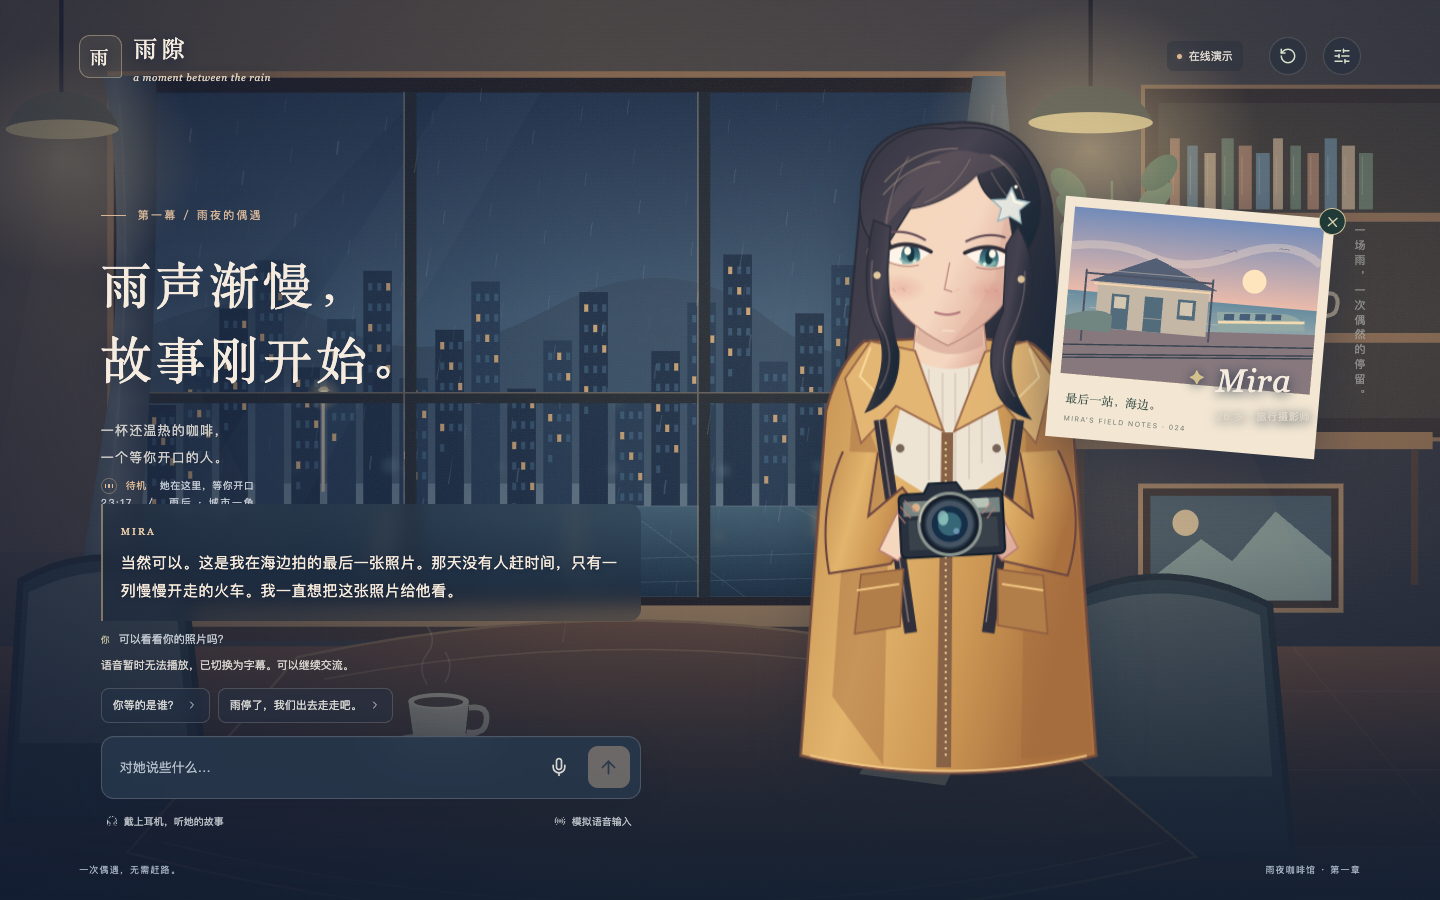
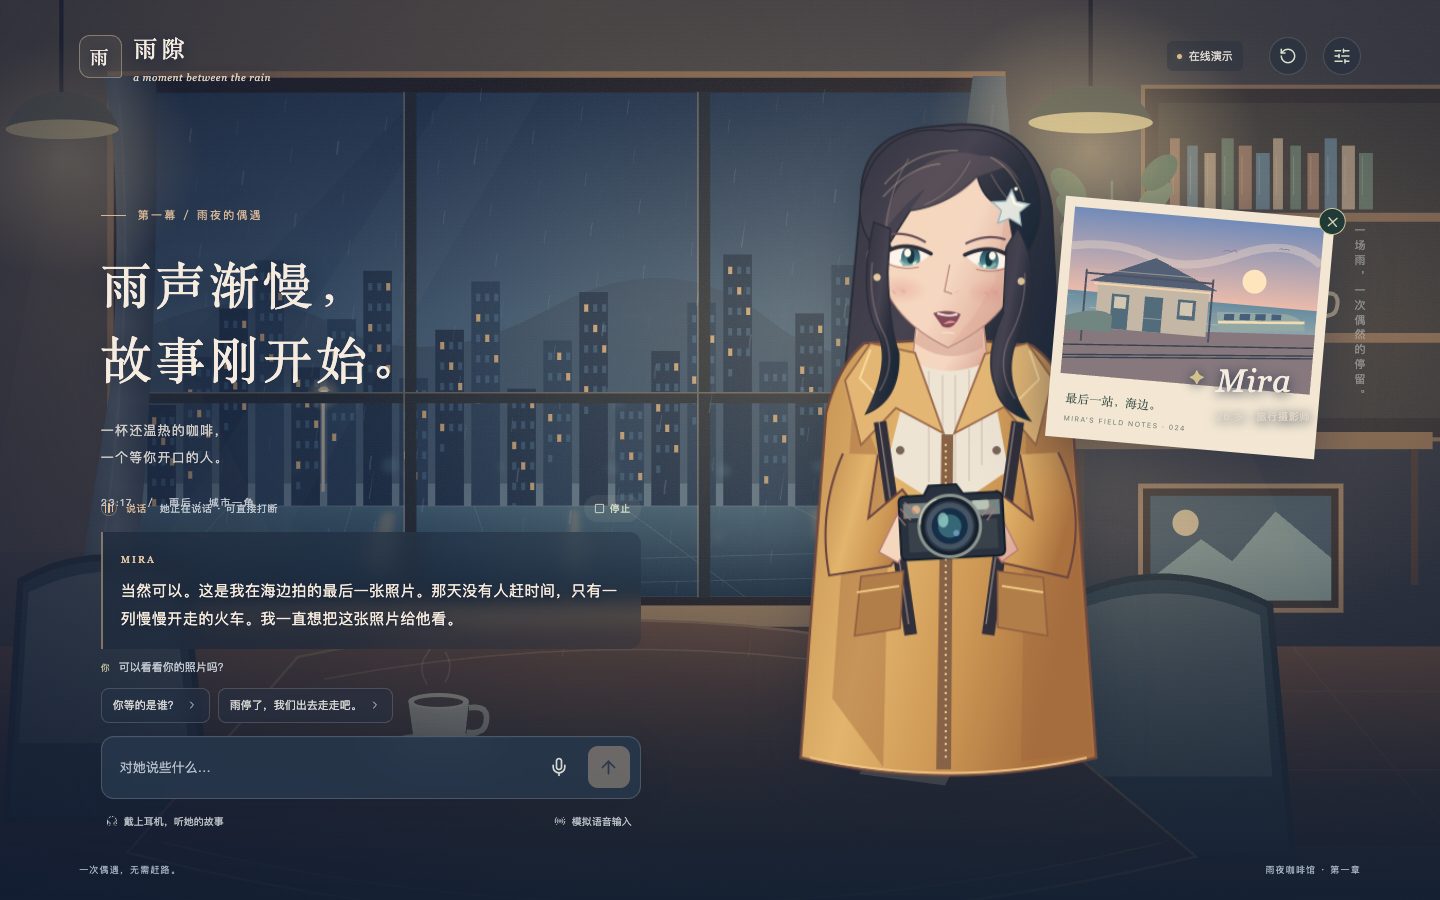
docs: record preview verification and complete lifecycle comments

diff --git a/src/app/api/speech/route.ts b/src/app/api/speech/route.ts
@@ -5,6 +5,7 @@ export async function POST(request: Request) {
   try {
     const parsed = z.object({ text: z.string().min(1).max(600) }).safeParse(await request.json());
     if (!parsed.success) return Response.json({ error: '语音请求格式不正确。' }, { status: 400 });
+    // 合成沿用本轮取消信号，音频以二进制返回且不缓存用户对话内容。
     const upstream = await provider('audio/speech', JSON.stringify({ model: process.env.TTS_MODEL || 'tts-1', voice: process.env.TTS_VOICE || 'nova', input: parsed.data.text, response_format: 'mp3' }), request.signal, 'application/json');
     return new Response(await upstream.arrayBuffer(), { headers: { 'Content-Type': 'audio/mpeg', 'Cache-Control': 'no-store' } });
   } catch (error) { return routeError(error); }

diff --git a/src/stores/scene-store.ts b/src/stores/scene-store.ts
@@ -26,6 +26,7 @@ type Store = SceneState & { traces: Trace[]; patch: (value: Partial<SceneState>)
 export const useSceneStore = create<Store>((set) => ({
   ...initialScene, traces: [],
   patch: value => set(value),
+  // 只保留最近 40 条事件，便于定位打断与播放问题，避免长期对话无限积累记录。
   trace: (turnId, stage) => set(state => ({ traces: [...state.traces.slice(-39), { id: (state.traces.at(-1)?.id || 0) + 1, time: new Date().toLocaleTimeString('zh-CN', { hour12: false }), turnId, stage }] })),
   reset: () => set({ ...initialScene, traces: [] }),
 }));

diff --git a/docs/ACCEPTANCE.md b/docs/ACCEPTANCE.md
@@ -1,0 +1,14 @@
+# 自动验收记录
+
+日期：2026-10-10。以下检查由 Codex 自动执行，不代表人工验收。
+
+- 中文 `//` 注释覆盖轮次取消、迟到结果拦截、上下文截断、结构化协议、播放驱动演出、录音上传与设备释放、服务端超时和媒体降级。
+- TypeScript 与 Vitest：3 个文件、20 项测试通过。
+- 本地完整 Next.js 生产构建通过，保留 config/respond/transcribe/speech 四个 API。
+- HTTP smoke 通过：配置、剧情、上下文、WAV、照片事件、超时、输入校验与无密钥行为。
+- 独立静态导出通过，仅导出页面与静态资源，不包含动态 API 或环境密钥文件。
+- 在 `/rain-cafe/` 路径自动打开静态预览，确认角色图集、背景、预录语音和照片使用正确前缀；文字 Mock 不请求后端 API。
+- 浏览器验证照片演出、暖光变化，以及说话中选择模拟语音后进入倾听、清除旧字幕和照片。预录音频曾出现加载失败，页面正常降级为字幕；重载后已确认实际进入 speaking。
+- 桌面 1440×900 与手机尺寸 390×844 截图见 pages-desktop.png、pages-mobile.png。
+
+尚待验收：真实外部 STT/LLM/TTS、实机麦克风授权与录音打断、人工听音、3–5 分钟完整交流与最终交付录屏。在线 Pages 仅为静态 Mock 演示，不能用于验收后端语音识别或真实模型。
